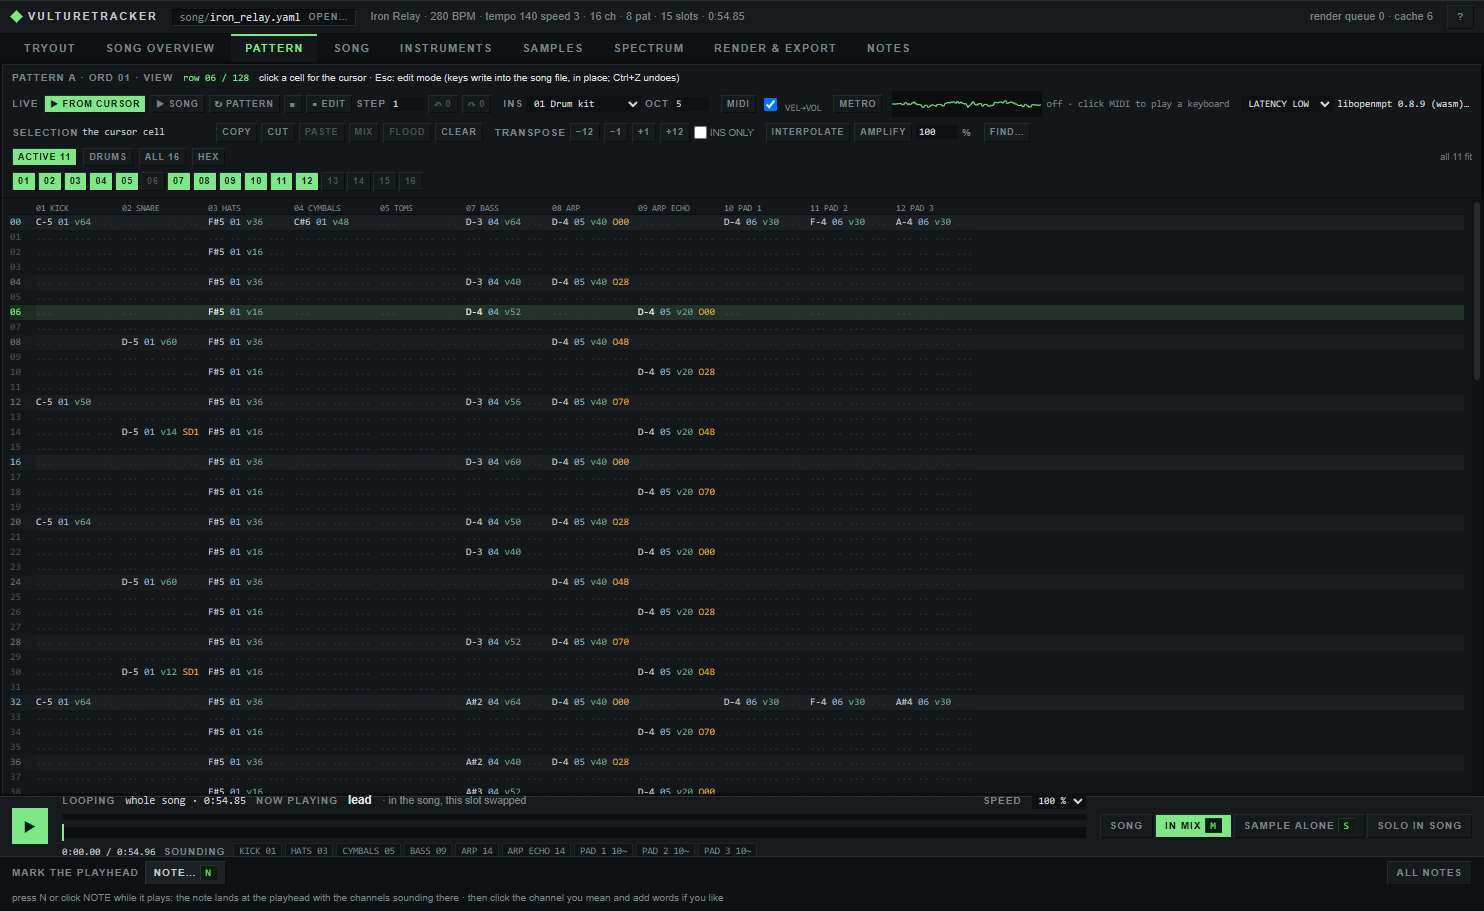
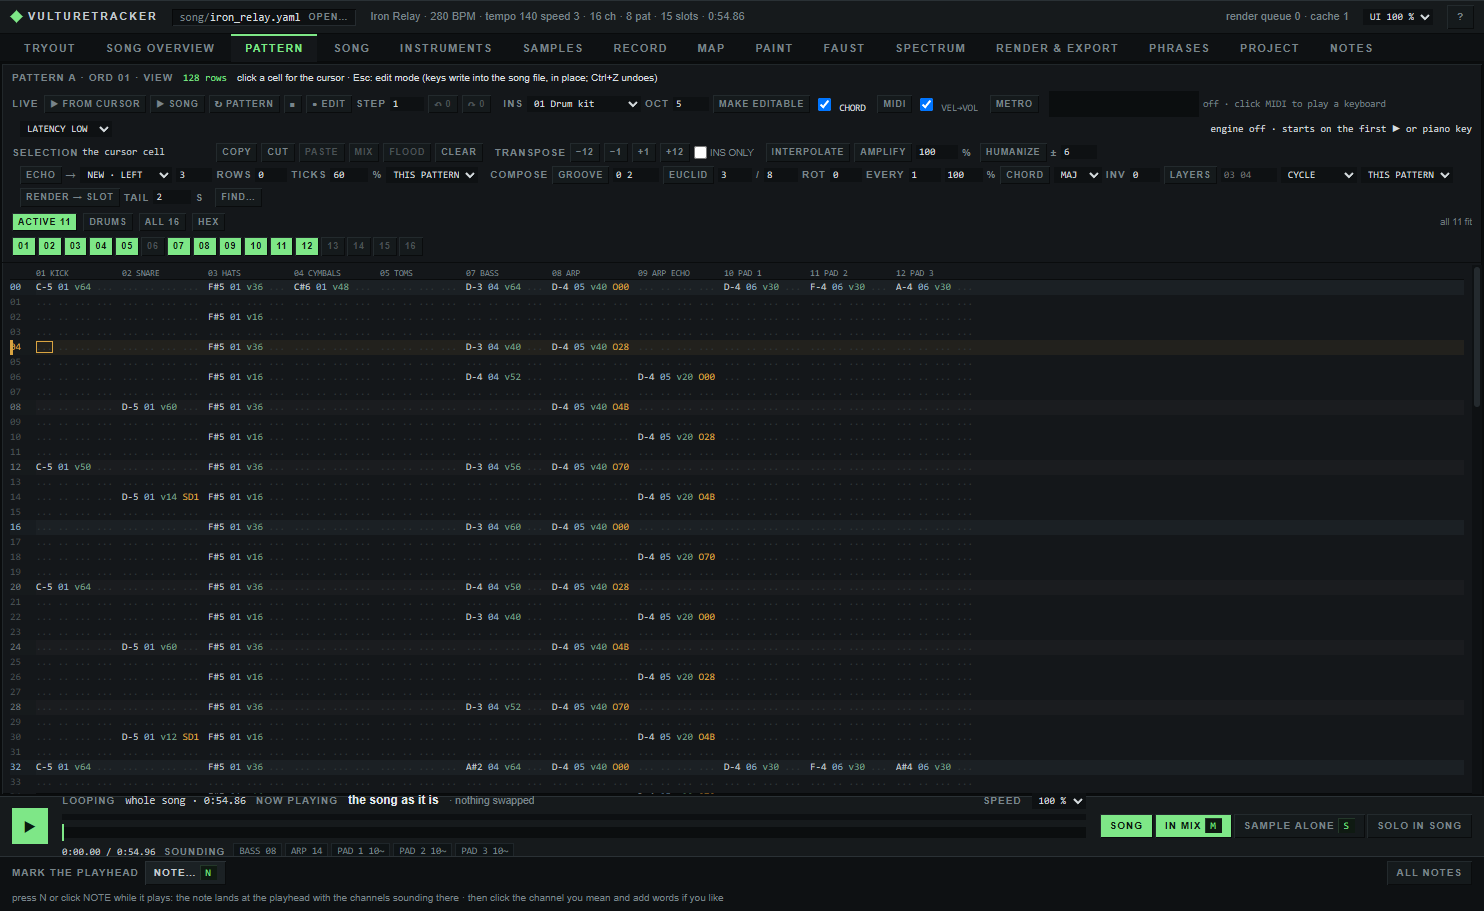
README for 1.0: shorter, new screenshots
The README keeps what the app is, the screenshots, install, a few commands, the docs and the credits; the extras,
the platform notes and the exe build move to GUIDE.md's Setup. The three screenshots are retaken from the current app
(Pattern, Tryout, Samples on demo2/iron_relay).

diff --git a/README.md b/README.md
@@ -3,108 +3,64 @@
 <img src="assets/vulturetracker.png" width="88" align="right" alt="">
 
 Tracker music as text, with a tracker built on it. A song is a readable YAML file that compiles to an Impulse Tracker
-module (`.it`), verified by libopenmpt, which plays in OpenMPT, Schism Tracker or anything built on libopenmpt. The app
-edits that same file: every note, sample, envelope and effect you change in it is a small in-place change to the text,
-checked by compiling the whole song before it is written, and undoable. People, scripts and AIs edit songs the same way.
+module (`.it`), checked by libopenmpt and playable in OpenMPT, Schism Tracker or anything built on libopenmpt. The app
+edits that same file in place: every change is checked by compiling the whole song before it is written, and can be
+undone. People, scripts and AIs edit songs the same way.
 
 ```
 song.yaml ──build──▶ song.it ──render──▶ song.wav / .mp3 / .ogg / .flac
 ```
 
-<p align="center"><img src="assets/screenshot-pattern.png" width="900" alt="Pattern tab: the pattern editor playing live, with the transport, edit mode, MIDI, metronome and scope in the live bar"></p>
-<p align="center"><img src="assets/screenshot-tryout.png" width="900" alt="Tryout tab: candidate WAVs rendered inside the song and measured against the current sample"></p>
-<p align="center"><img src="assets/screenshot-samples.png" width="900" alt="Samples tab: a zoomable waveform with its loop, the edits that write new WAVs, and the sample's properties"></p>
+<p align="center"><img src="assets/screenshot-pattern.png" width="900" alt="Pattern tab: the pattern editor with the live bar, the edit tools and the composition helpers"></p>
+<p align="center"><img src="assets/screenshot-tryout.png" width="900" alt="Tryout tab: candidate sounds rendered inside the song and measured against the current sample"></p>
+<p align="center"><img src="assets/screenshot-samples.png" width="900" alt="Samples tab: a waveform with its loop and a selection, the edits and effects that write new WAVs, and the sample's properties"></p>
 
 ## What it does
 
-- **Songs as text.** The song format ([SONG_FORMAT.md](SONG_FORMAT.md)) covers IT's module settings, channels, samples,
-  instruments with envelopes and keymaps, patterns in OpenMPT's cell notation and the order list. `check` reports errors
-  by file and line; the compiler writes IT 2.14 and has libopenmpt load and verify every build.
-- **A live engine.** libopenmpt 0.8.9 compiled to WebAssembly plays in the page's audio thread: play from any row, loop a
-  pattern or a span, live mutes and solo, note preview, per-channel VU, a metronome, a scope, and every edit swapped in
-  where it plays.
-- **Editors.** Pattern editing with a cell cursor, keyboard and MIDI note entry, selections, copy / paste / mix-paste /
-  flood, transpose, interpolate, amplify, find and replace. The order list, patterns, channels and song settings. Every
-  instrument field, with envelopes as draggable graphs and a keymap editor. A sample editor with a zoomable waveform,
-  loop and sustain-loop points, and trim / fade / normalize / reverse / DC removal / crossfaded loops written as new WAVs
-  beside the song (never over a source file), with effects (gain, filters, EQ, loudness, pitch, stretch, truncate
-  silence, noise reduction), slicing at the hits into slots, a kit, a multisample or a pattern at the slices' timing,
-  and auto loop points. Composition helpers in the Pattern tab (groove, Euclidean rhythms, chords over channels,
-  round-robin and velocity layers) and rows rendered into a new slot.
-- **Making sounds in the app.** The Paint tab turns a picture over frequency and time into sound, or lays it over a
-  sample as a filter. The Faust tab compiles [Faust](https://faust.grame.fr) code in the page and renders notes into
-  slots or candidates (the compiler is downloaded on first use).
-- **Recording.** The Record tab records from an audio interface (WASAPI or ASIO) with meters and a tuner; takes are
-  trimmed, their note found, and sent to the Tryout as candidates, into new slots tuned to the cent, or into one
-  multisample.
-- **Choosing sounds in context.** The Tryout tab renders candidate samples inside the song, measures them against the
-  current one and writes the choice with one key; a mixer with channel and sample faders; listening notes dropped at the
-  playhead with the channels sounding there, kept as a report for a collaborator who cannot listen; a spectrogram.
-- **Finding sounds.** Your sample folders are indexed by timbre: FIND SIMILAR fills the Tryout with the library's
-  nearest sounds to the slot's sample or a candidate, and the Map tab lays the whole library out by likeness, to click
-  and hear.
-- **Import and export.** IT, XM, S3M and MOD files become song files (samples extracted as WAVs, measured against how
-  libopenmpt plays the original); Guitar Pro 3-5 tabs and MIDI files become song files with placeholder sounds to swap
-  in the Tryout. Songs render to WAV, MP3, OGG and FLAC, whole or as per-channel stems.
-- **Finishing and sharing.** Persistent undo/redo and named checkpoints, external-file comparison, named arrangement
-  sections, user-written phrase comparisons, portable project collection/ZIP, and a unified export panel with
-  explicit mix, region, mute/solo and tail choices. See the [walkthrough](GUIDE.md#finishing-and-sharing-a-song).
-- **Samples by recipe.** `synth` renders samples from free synths (Surge XT, Dexed, OB-Xd) and CC0 recordings by recipe
-  ([SAMPLING.md](SAMPLING.md)), Faust code, or a target rebuilt from blocks of other WAVs (`resynth:`), with
-  anti-aliased resampling so notes played far from their root stay clean.
+- **A tracker on a text file:** patterns, instruments with envelopes, samples and the order list, with OpenMPT's keys,
+  MIDI input and a live engine (libopenmpt in the page) that plays every edit where it is.
+- **Choosing sounds in context:** the Tryout renders candidate samples inside the song and measures them; a mixer,
+  listening notes, and a sample library searched by timbre.
+- **Making sounds:** a sample editor with effects and slicing, recording from an audio interface, Faust code, pictures
+  painted into sound, and sample recipes rendered from free synths ([SAMPLING.md](SAMPLING.md)).
+- **In and out:** imports IT, XM, S3M, MOD, Guitar Pro 3-5 and MIDI files and WAV, FLAC, AIFF, OGG and MP3 samples;
+  exports WAV, MP3, OGG and FLAC, stems and game loops.
+- **Files that stay right:** undo history and checkpoints kept with the song, every song from 0.6 on opening unchanged
+  in every 1.x ([SONG_FORMAT.md](SONG_FORMAT.md)), and a command line that does what the app does.
 
 ## Install
 
 **Windows:** download `vulturetracker-win64.zip` from the [latest release](https://github.com/shadoh420/VultureTracker/releases/latest),
-unzip it anywhere and run `vulturetracker.exe`. The start screen lists two demo songs: open one, press play, then try
-a candidate sound in the Tryout.
+unzip it anywhere and run `vulturetracker.exe`. The start screen lists two demo songs.
 
-**From source** (Python 3.10+):
+**From source** (Python 3.10+; Linux is tested on every push, macOS is untested; outside Windows install libopenmpt,
+e.g. `apt install libopenmpt0t64`):
 
 ```
 git clone https://github.com/shadoh420/VultureTracker.git
 cd VultureTracker
 pip install -e ".[all]"
+python -m vulturetracker gui demo2/iron_relay.yaml
 ```
 
-`pip install -e .` alone installs PyYAML, all that compiling songs needs. The extras add the rest: `gui` (pywebview, the
-app in its own window, else it opens in the browser; numpy for measurements, the spectrogram, the sample editor and
-resampling; imageio-ffmpeg, the ffmpeg the MP3 / OGG / FLAC export and the FLAC, AIFF, OGG and MP3 samples run),
-`record` (sounddevice, the RECORD tab), `synth` (pedalboard and mido: `synth` and the app's RECIPE box, SAMPLING.md),
-`gp` (PyGuitarPro, the Guitar Pro import), `midi` (mido, the MIDI import), `all` (every one) and `test` (what the
-tests need). node runs `faust:` recipes on the command line.
-Windows x64 has libopenmpt in `vendor/`; elsewhere install libopenmpt or point `LIBOPENMPT` at it.
-`pip install pyinstaller && python tools/build_exe.py` builds `dist/vulturetracker.exe` with `dist/ffmpeg.exe` beside it.
-
-**Platforms.** The Windows exe (Windows 10 and 11, x64) is the product. Linux runs from source and is tested on every
-push (Ubuntu 24.04, its libopenmpt 0.7: `apt install libopenmpt0t64`; pywebview there needs GTK or Qt, see its docs).
-macOS is untested. Windows only: the exe, the RECIPE box's download of Surge XT and Dexed (elsewhere install them: the
-app finds them in the platform's VST3 folder and Surge's patches where its installer puts them, or set `SURGE_XT_DIR`,
-`DEXED_VST3`, `OBXD_VST3`) and the RECORD tab's ASIO. The app keeps its recent list, library index, window profile and
-log in `%APPDATA%\VultureTracker` (macOS `~/Library/Application Support/VultureTracker`, Linux
-`~/.config/VultureTracker`) and the downloads in `%LOCALAPPDATA%\VultureTracker` (Linux `~/.local/share/VultureTracker`).
+[GUIDE.md](GUIDE.md#setup) says what each extra adds and what stays Windows-only.
 
 ## Use
 
 ```
-python -m vulturetracker gui demo2/iron_relay.yaml         # the app (no song: the start screen: open, new song, import)
+python -m vulturetracker gui song.yaml                     # the app (no song: open, new song, import)
 python -m vulturetracker check song.yaml                   # validate; errors show file:line
 python -m vulturetracker build song.yaml --render song.wav # compile, verify with libopenmpt, render
-python -m vulturetracker import some.xm -o some.yaml       # an .it, .xm, .s3m or .mod -> song file + WAVs
-python -m vulturetracker synth recipe.yaml                 # render samples from free synths or recordings
-python -m vulturetracker index ~/samples --like kick.wav   # index sample folders; the nearest sounds to a WAV
-python -m vulturetracker export song.yaml -f ogg --loop    # the app's RENDER & EXPORT: formats, sections, stems, game loops
-python -m vulturetracker undo song.yaml                    # the app's undo; also redo, trim-history, sections, checkpoint, phrase
+python -m vulturetracker import some.xm -o some.yaml       # a module, a Guitar Pro tab or a MIDI file -> song file
 python -m vulturetracker --help                            # every command
 ```
 
-Tests: `python -m unittest discover tests` (the live-engine checks need node; the page checks need Playwright's Chromium).
-
 ## Docs
 
-- [GUIDE.md](GUIDE.md): the app tab by tab, the demos and the suite, samples, tests, notes
+- [GUIDE.md](GUIDE.md): the app tab by tab, the command line, the demos, samples, tests
 - [SONG_FORMAT.md](SONG_FORMAT.md): the complete song format
-- [SAMPLING.md](SAMPLING.md): making samples with Surge XT, Dexed, OB-Xd and CC0 recordings
+- [SAMPLING.md](SAMPLING.md): making samples with Surge XT, Dexed, OB-Xd, Faust and CC0 recordings
+- [CHANGELOG.md](CHANGELOG.md): what changed in each release
 - [PROVENANCE.md](PROVENANCE.md): what the demos derive from reference material
 - [AGENTS.md](AGENTS.md): orientation for people and AI agents working on the repository
 

diff --git a/GUIDE.md b/GUIDE.md
@@ -18,11 +18,25 @@ cd VultureTracker
 pip install -e ".[all]"
 ```
 
-Python 3.10+; `pip install -e .` alone (PyYAML) compiles songs, and README's Install names what each extra adds. On
-Windows x64, libopenmpt (used to verify and render) is included in `vendor/`. Elsewhere, install libopenmpt (e.g.
-`apt install libopenmpt0t64`) or set `LIBOPENMPT` to its path. README's Platforms says what is Windows-only and where
-the app keeps its files on Linux and macOS (the `%APPDATA%` and `%LOCALAPPDATA%` folders below are Windows').
-`vulturetracker --version` prints the version; the window title and the start screen show it too.
+Python 3.10+. `pip install -e .` alone installs PyYAML, all that compiling songs needs. The extras add the rest: `gui`
+(pywebview, the app in its own window, else it opens in the browser; numpy for measurements, the spectrogram, the
+sample editor and resampling; imageio-ffmpeg, the ffmpeg the MP3 / OGG / FLAC export and the FLAC, AIFF, OGG and MP3
+samples run), `record` (sounddevice, the RECORD tab), `synth` (pedalboard and mido: `synth` and the app's RECIPE box,
+SAMPLING.md), `gp` (PyGuitarPro, the Guitar Pro import), `midi` (mido, the MIDI import), `all` (every one) and `test`
+(what the tests need). node runs `faust:` recipes on the command line. On Windows x64, libopenmpt (used to verify and
+render) is included in `vendor/`. Elsewhere, install libopenmpt (e.g. `apt install libopenmpt0t64`) or set
+`LIBOPENMPT` to its path. `pip install pyinstaller && python tools/build_exe.py` builds `dist/vulturetracker.exe` with
+`dist/ffmpeg.exe` beside it. `vulturetracker --version` prints the version; the window title and the start screen show
+it too.
+
+**Platforms.** The Windows exe (Windows 10 and 11, x64) is the product. Linux runs from source and is tested on every
+push (Ubuntu 24.04, its libopenmpt 0.7; pywebview there needs GTK or Qt, see its docs). macOS is untested. Windows
+only: the exe, the RECIPE box's download of Surge XT and Dexed (elsewhere install them: the app finds them in the
+platform's VST3 folder and Surge's patches where its installer puts them, or set `SURGE_XT_DIR`, `DEXED_VST3`,
+`OBXD_VST3`) and the RECORD tab's ASIO. The app keeps its recent list, library index, window profile and log in
+`%APPDATA%\VultureTracker` (macOS `~/Library/Application Support/VultureTracker`, Linux `~/.config/VultureTracker`) and
+the downloads in `%LOCALAPPDATA%\VultureTracker` (Linux `~/.local/share/VultureTracker`); the `%APPDATA%` and
+`%LOCALAPPDATA%` folders named below are Windows'.
 
 **When something fails.** The app writes what fails unexpectedly, with its traceback, to
 `%APPDATA%\VultureTracker\vulturetracker.log` (at most two files of 256 KB; the first line of each start names the
